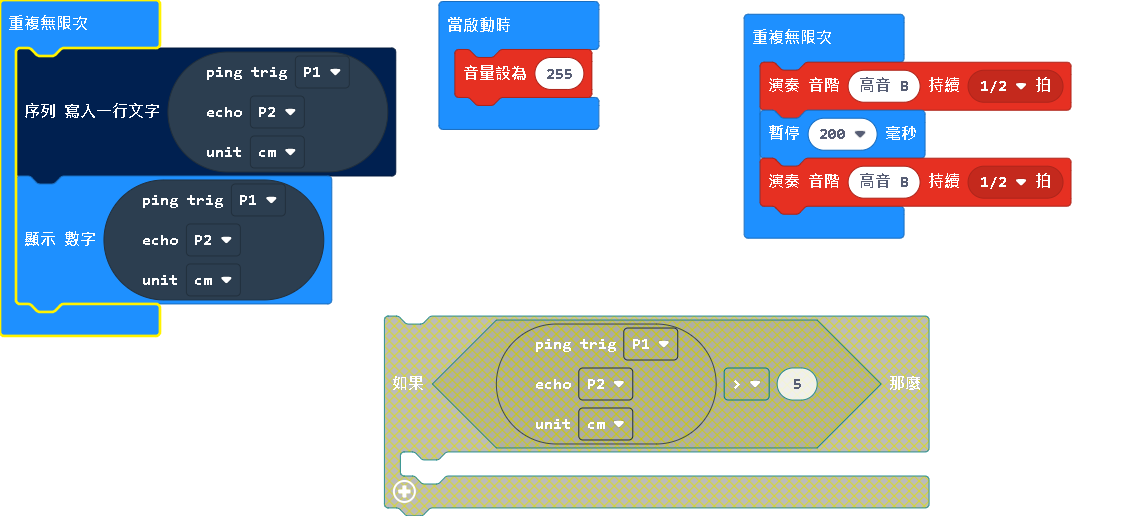
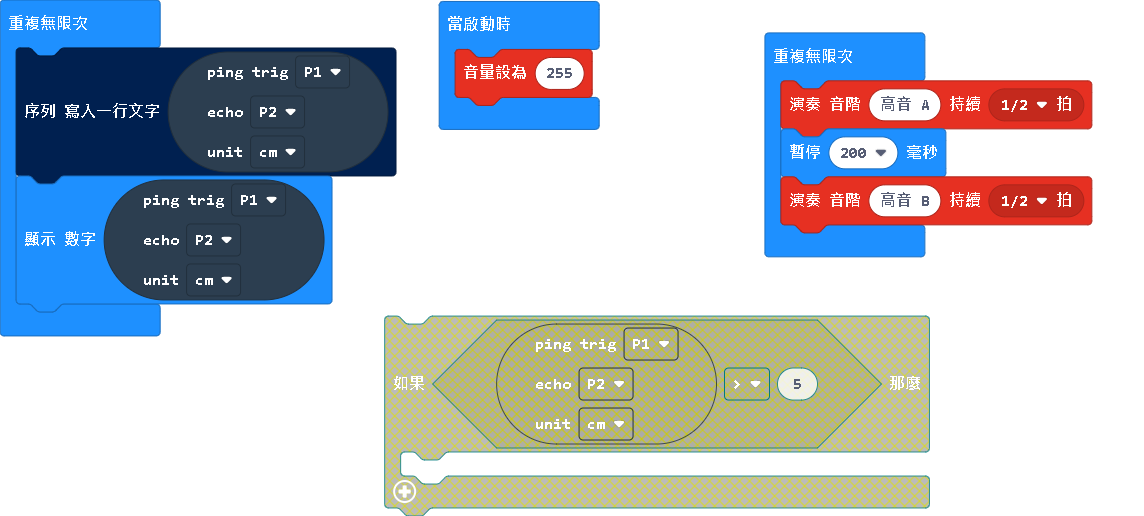
更新 main.blocks, main.ts

diff --git a/main.ts b/main.ts
@@ -12,7 +12,7 @@ basic.forever(function () {
     ))
 })
 basic.forever(function () {
-    music.playTone(988, music.beat(BeatFraction.Half))
+    music.playTone(880, music.beat(BeatFraction.Half))
     basic.pause(200)
     music.playTone(988, music.beat(BeatFraction.Half))
 })
